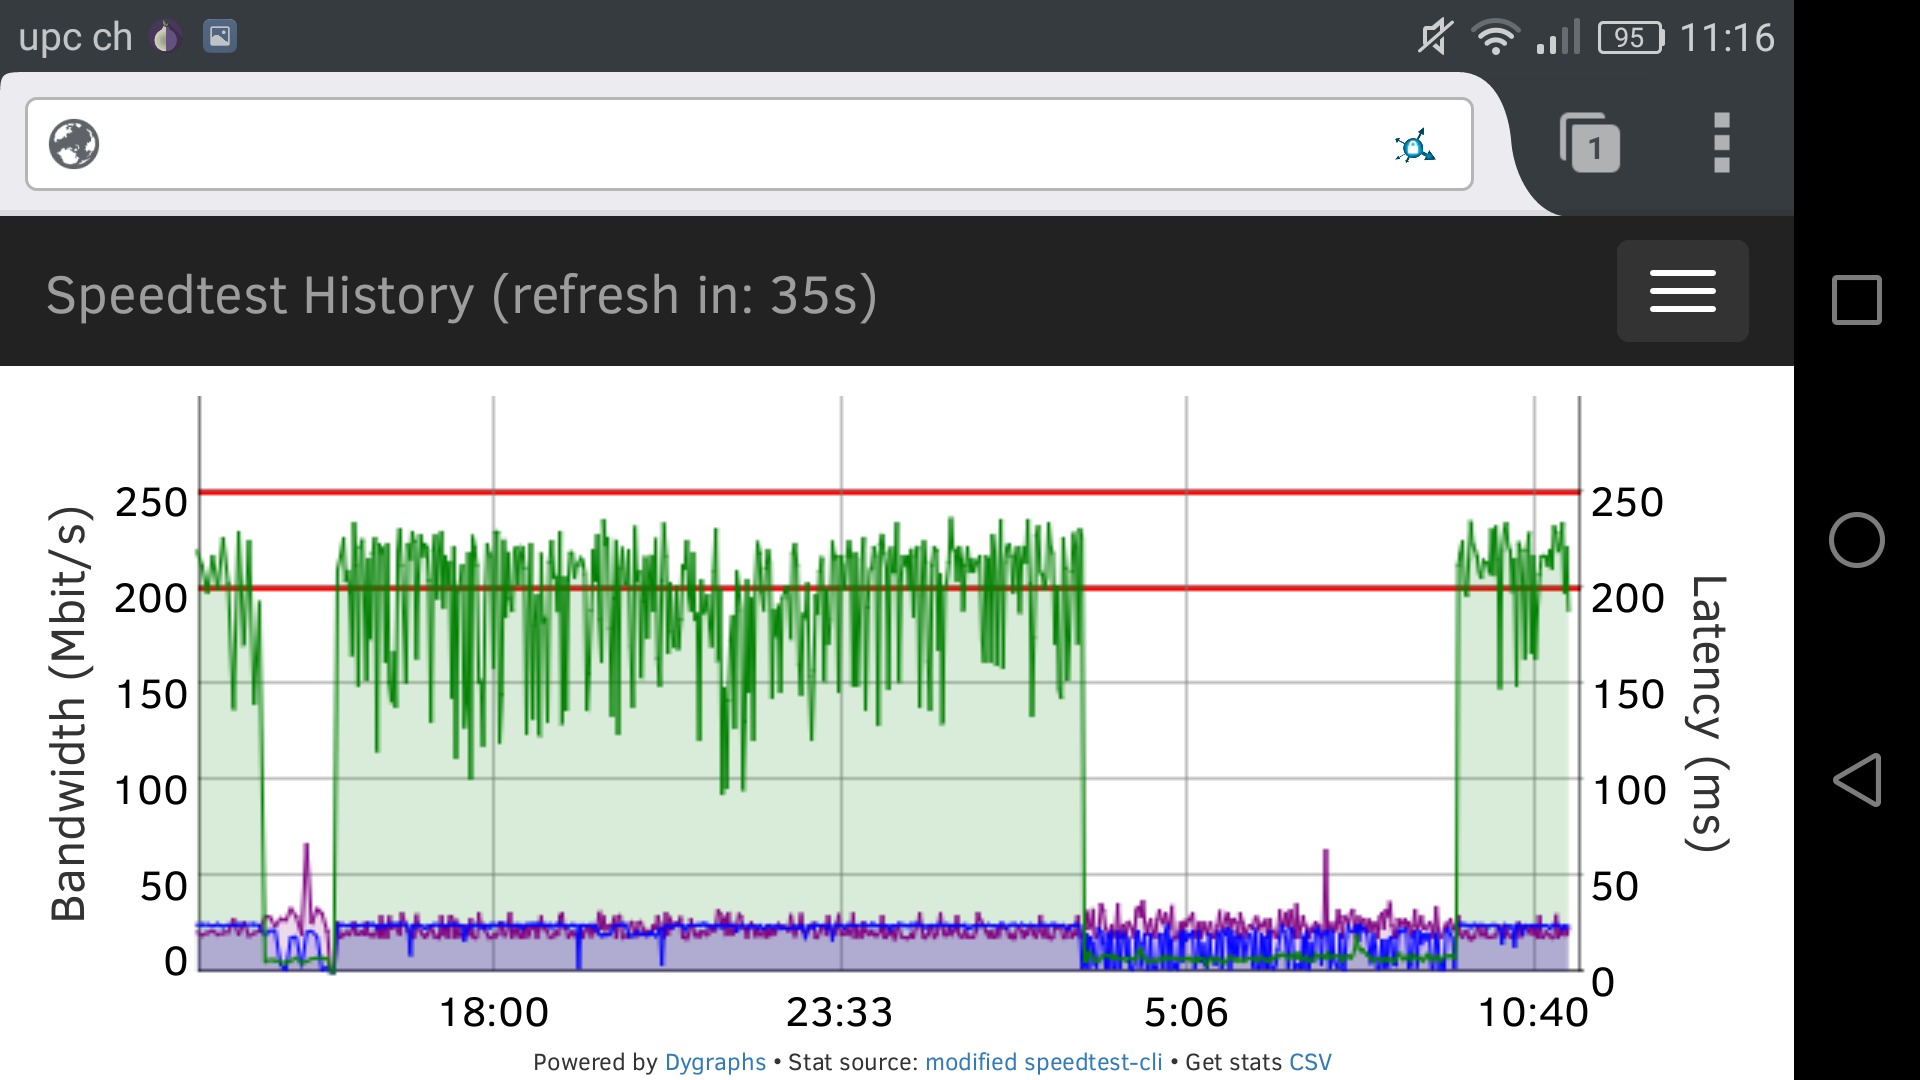
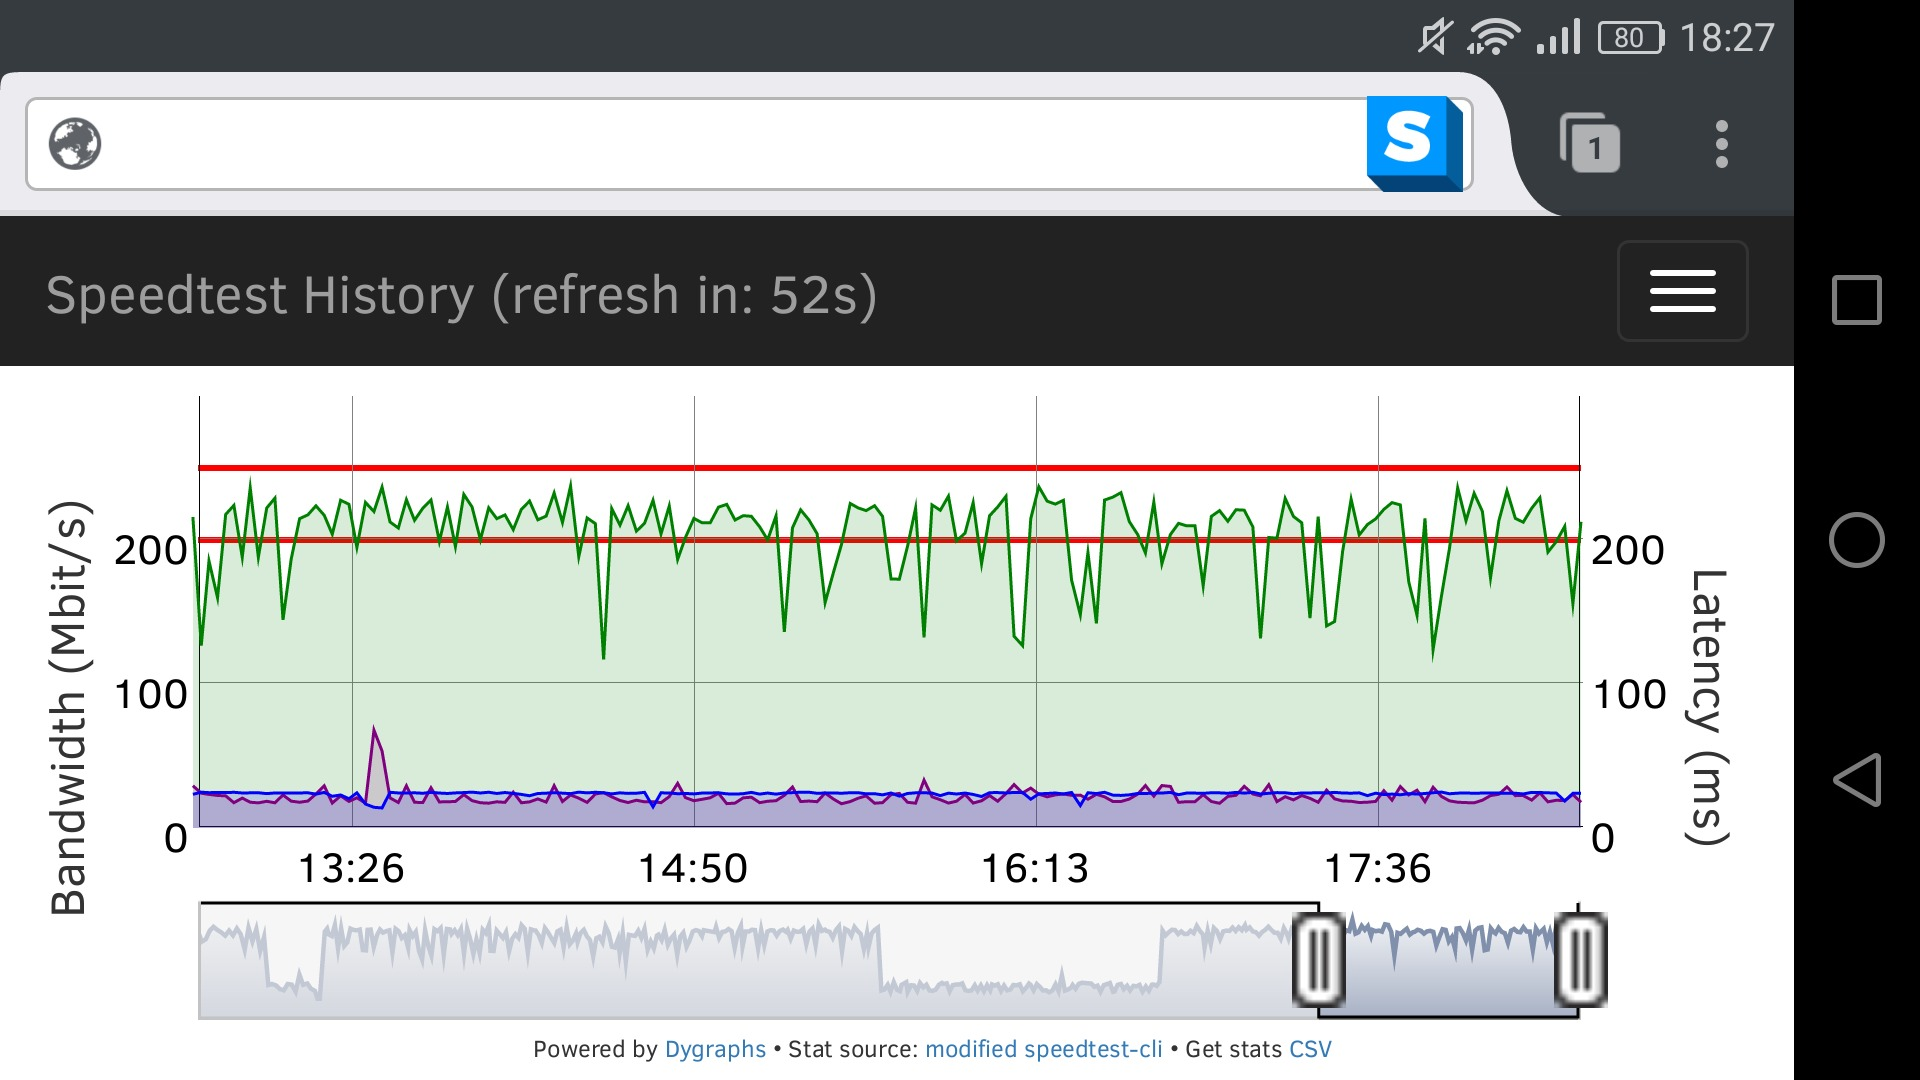
updated README and screenshots

diff --git a/README.md b/README.md
@@ -6,7 +6,7 @@ Get an overview of your bandwidth speed on a given time span.
 
 ![Alt text](/mobile-full.jpg?raw=true "Mobile view")
 
-![Alt text](/mobile-menu.jpg?raw=true "Mobile with menu")
+![Alt text](/mobile-info.jpg?raw=true "Mobile with information")
 
 ## Required libraries
   * [dygraphs](http://dygraphs.com/)
